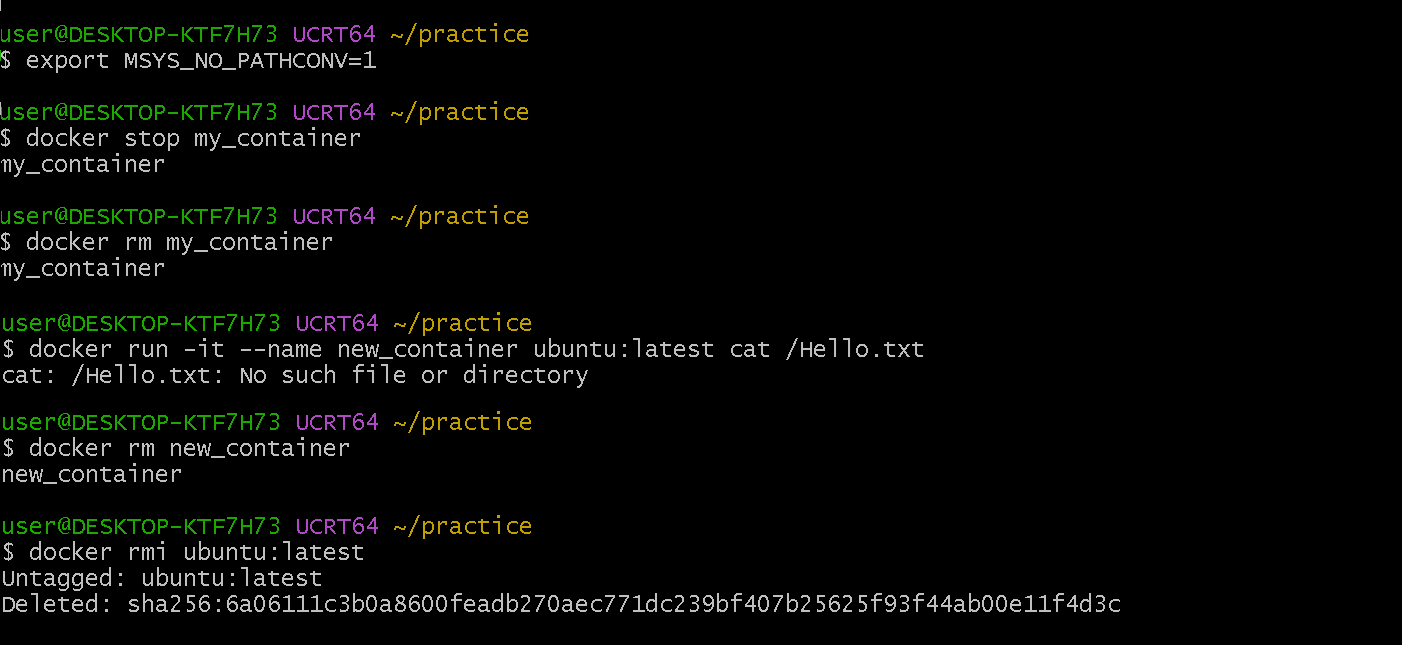
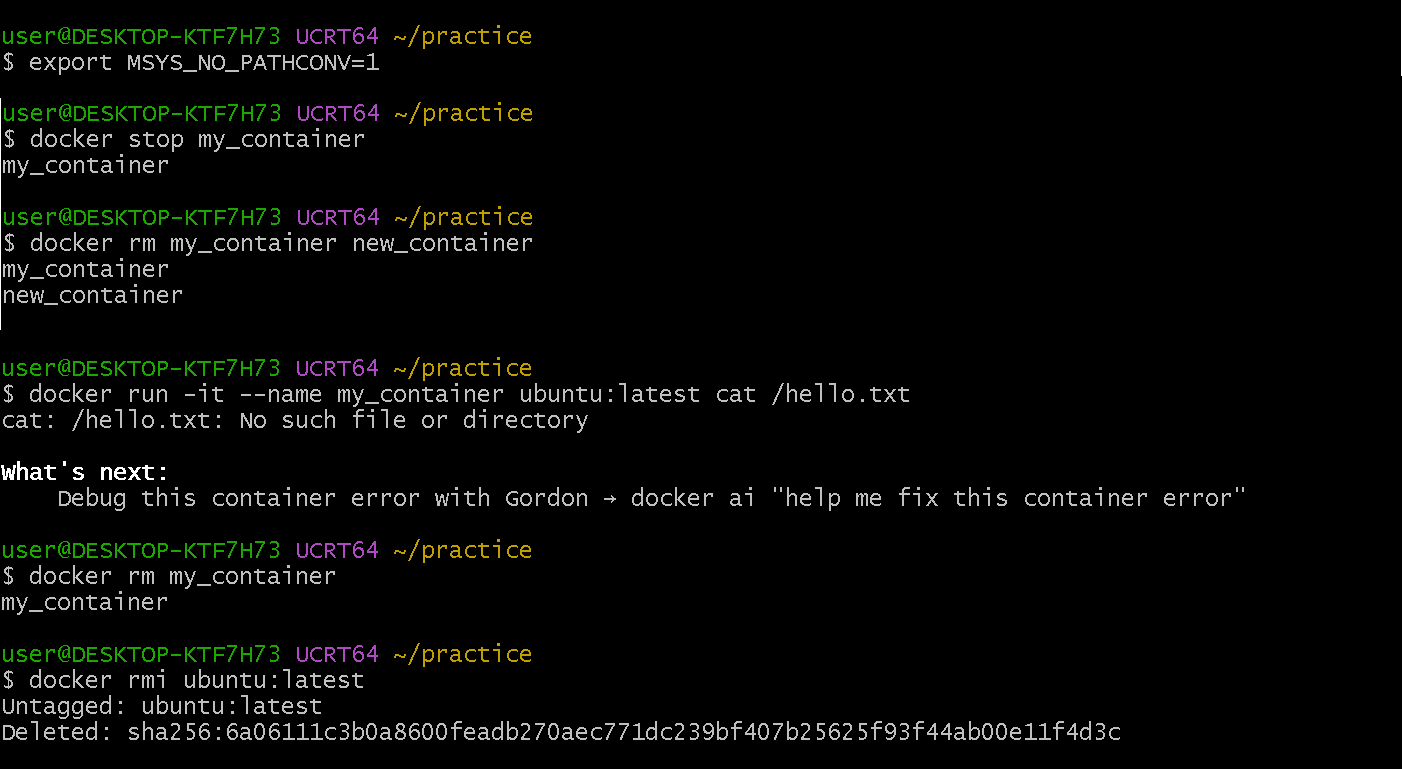
이미지 vs 컨테이너 생명주기 업데이트

diff --git a/README.md b/README.md
@@ -1053,18 +1053,17 @@ exit
 ```text
 # 실행 중인 컨테이너 내부의 Bash 셸로 접속
 user@DESKTOP-KTF7H73 UCRT64 ~/practice
-
 $ docker exec -it my_container bash
 # [컨테이너 내부셸] 내부에서 새로운 파일 생성 (가변성 확인)
-root@ffdeaba3f356:/# echo "Hello Docker" > /Hello.txt
-root@ffdeaba3f356:/# cat /Hello.txt
-root@ffdeaba3f356:/# ls
-Hello.txt  boot  etc   lib    media  opt   root  sbin  sys  usr
-bin        dev   home  lib64  mnt    proc  run   srv   tmp  var
+root@a9484c76d213:/# echo "Hello Docker" > /hello.txt
+root@a9484c76d213:/# cat /hello.txt
+Hello Docker
+root@a9484c76d213:/# ls
+bin   dev  hello.txt  lib    media  opt   root  sbin  sys  usr
+boot  etc  home       lib64  mnt    proc  run   srv   tmp  var
 # [컨테이너 내부셸] exit 입력하여 호스트(Git Bash)로 복귀
-root@ffdeaba3f356:/# exit
+root@a9484c76d213:/# exit
 exit
-
 ```
 ##### 스크린샷
 ![Docker_run_container내부명령](images/08_02_03_Docker_exec_container_internal.png)
@@ -1084,11 +1083,9 @@ user@DESKTOP-KTF7H73 UCRT64 ~/practice
 $ export MSYS_NO_PATHCONV=1
 
 user@DESKTOP-KTF7H73 UCRT64 ~/practice
-$ docker run -it --name new_container ubuntu:latest cat /hello.txt
+$ docker run -it --name my_container ubuntu:latest cat /hello.txt
 cat: /hello.txt: No such file or directory
 # 위 에러 문구가 원본 이미지(설계도)는 전혀 수정되지 않았음을 증명 (불변성)
-
-
 ```
 ##### 스크린샷
 ![Docker 이미지 불변성](images/08_02_04_Docker_run_new_container.png)
@@ -1117,6 +1114,35 @@ docker rm my_container new_container
 docker rmi ubuntu:latest
 ```
 ##### 실행결과
+```text
+user@DESKTOP-KTF7H73 UCRT64 ~/practice
+$ docker stop my_container
+my_container
+
+user@DESKTOP-KTF7H73 UCRT64 ~/practice
+$ docker rm my_container new_container
+my_container
+new_container
+
+user@DESKTOP-KTF7H73 UCRT64 ~/practice
+$ docker run -it --name my_container ubuntu:latest cat /hello.txt
+cat: /hello.txt: No such file or directory
+
+What's next:
+    Debug this container error with Gordon → docker ai "help me fix this container error"
+
+user@DESKTOP-KTF7H73 UCRT64 ~/practice
+$ docker rm my_container
+my_container
+
+user@DESKTOP-KTF7H73 UCRT64 ~/practice
+$ docker rmi ubuntu:latest
+Untagged: ubuntu:latest
+Deleted: sha256:6a06111c3b0a8600feadb270aec771dc239bf407b25625f93f44ab00e11f4d3c
+
+
+```
+
 ```text
 user@DESKTOP-KTF7H73 UCRT64 ~/practice
 $ export MSYS_NO_PATHCONV=1
